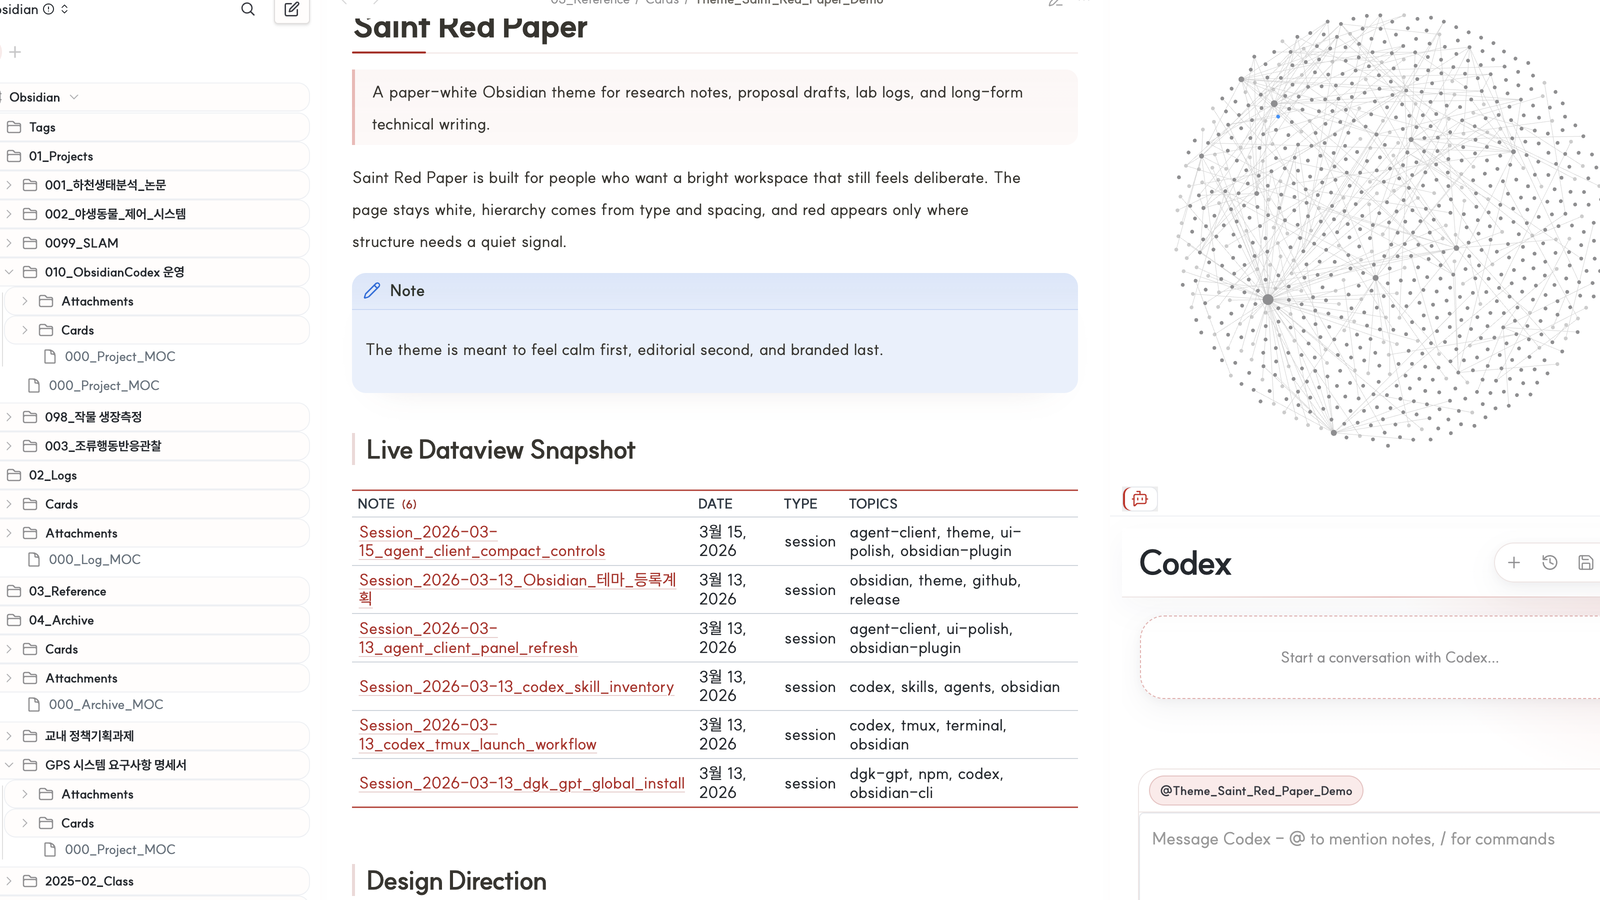
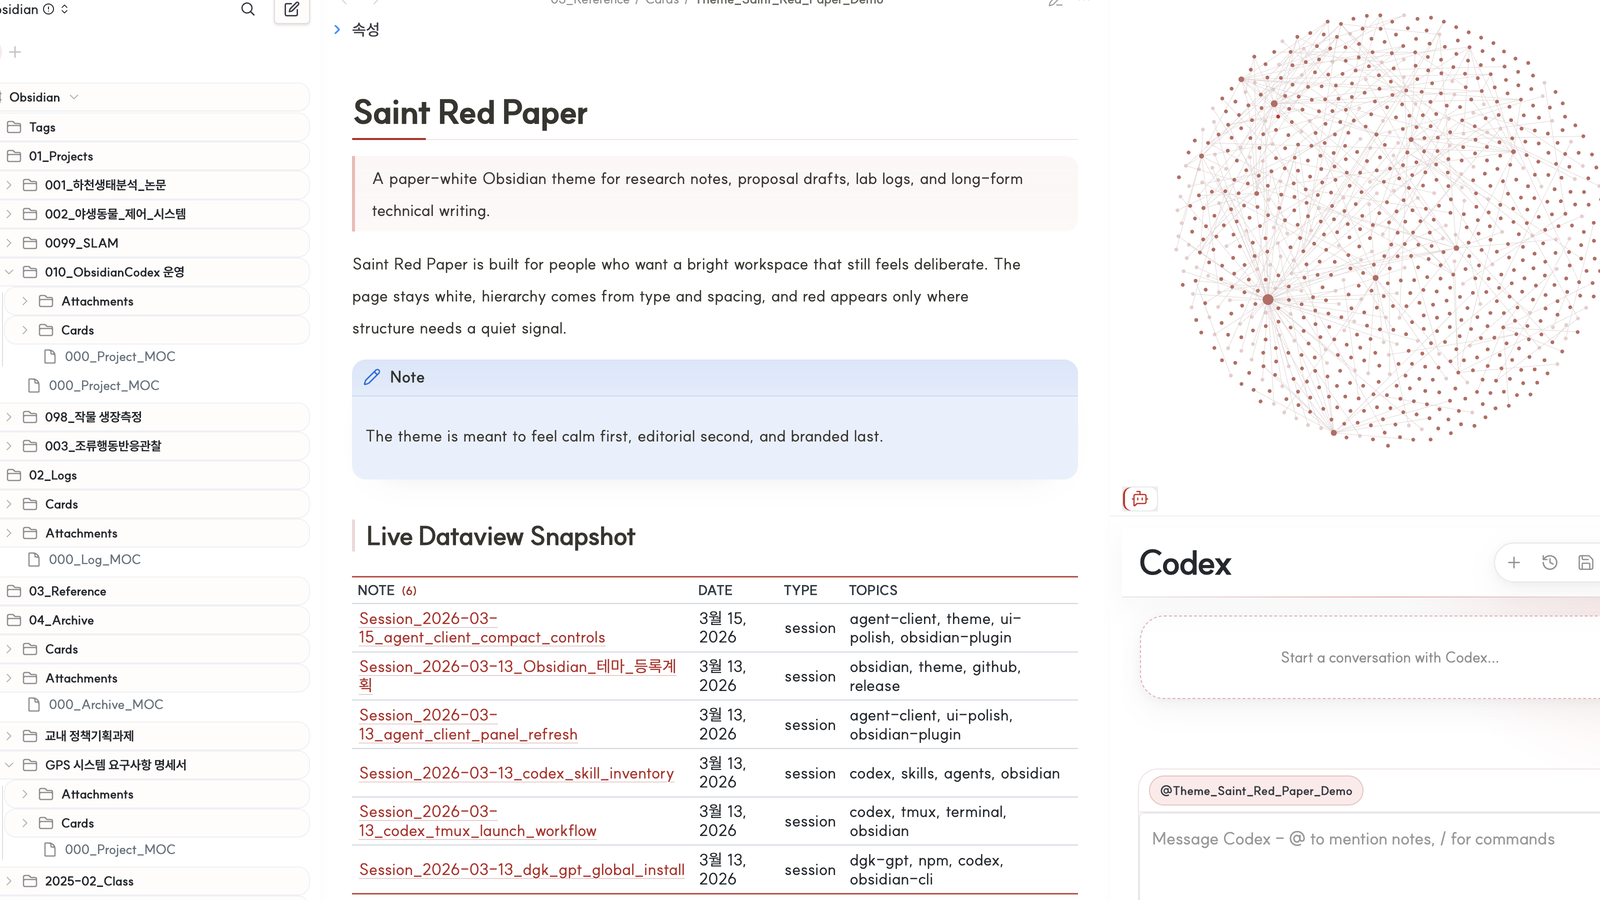
Tint graph view and refresh preview screenshots

diff --git a/theme.css b/theme.css
@@ -49,6 +49,15 @@
   --purple: #c678dd;
   --blue: #61afef;
   --yellow: #e5c07b;
+  --graph-line: #5c4646;
+  --graph-node: #d08980;
+  --graph-text: #f1d8d4;
+  --graph-node-focused: #ff7b72;
+  --graph-node-tag: #d66b63;
+  --graph-node-attachment: #d69a66;
+  --graph-node-unresolved: #8d6b67;
+  --graph-node-alias: #d4a09a;
+  --graph-node-url: #d99a93;
 
   --background-modifier-hover: hsla(var(--accent-h), calc(var(--accent-s) - 35%), var(--accent-l), 0.06);
   --divider-color-hover: #404754;
@@ -100,6 +109,15 @@
   --aqua: #0084bc;
   --yellow: #e35649;
   --orange: #986800;
+  --graph-line: #ead7d4;
+  --graph-node: #c46a61;
+  --graph-text: #6d4039;
+  --graph-node-focused: #cd2623;
+  --graph-node-tag: #d04a43;
+  --graph-node-attachment: #d28b57;
+  --graph-node-unresolved: #d8a6a0;
+  --graph-node-alias: #b6534b;
+  --graph-node-url: #b6534b;
 }
 
 .theme-dark, .theme-light {

diff --git a/CHANGELOG.md b/CHANGELOG.md
@@ -6,6 +6,7 @@
 
 - Rebuilt the main preview assets around a real Obsidian workspace layout with the left sidebar open, a live Dataview table in the note surface, a graph view in the upper-right dock, and `Agent Client` in the lower-right dock.
 - Added a dedicated 16:9 community submission screenshot and documented the ready-to-paste community theme metadata.
+- Retinted the graph view from neutral gray to a restrained red-paper palette and regenerated the preview screenshots with the updated graph panel.
 - Added `versions.json` so future GitHub releases can be consumed through Obsidian's theme update flow.
 - Refined the optional `Agent Client` control styling so the composer, selectors, usage chip, and send button sit closer to the Saint Red Paper visual language.
 - Clarified in the README that plugin-specific support is styling-only and does not bundle plugin functionality.
